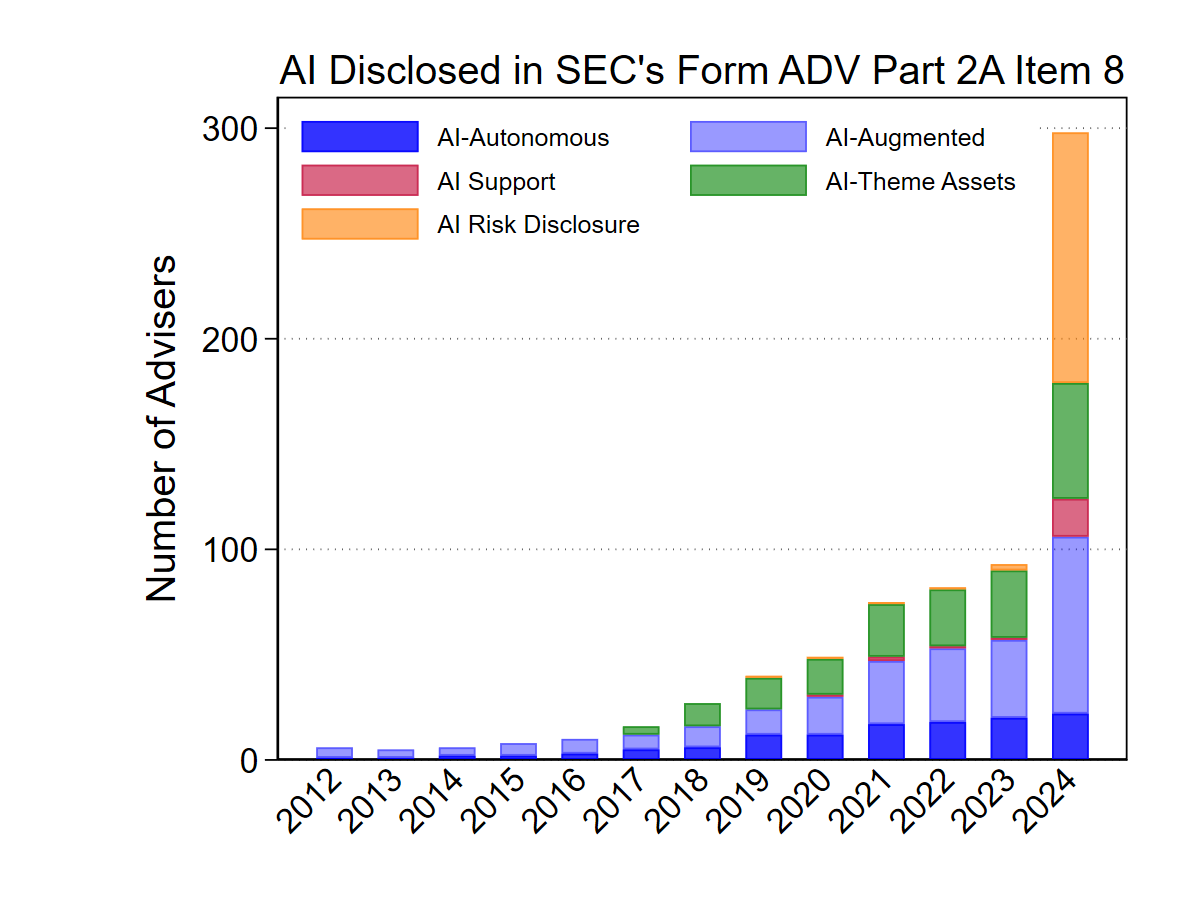
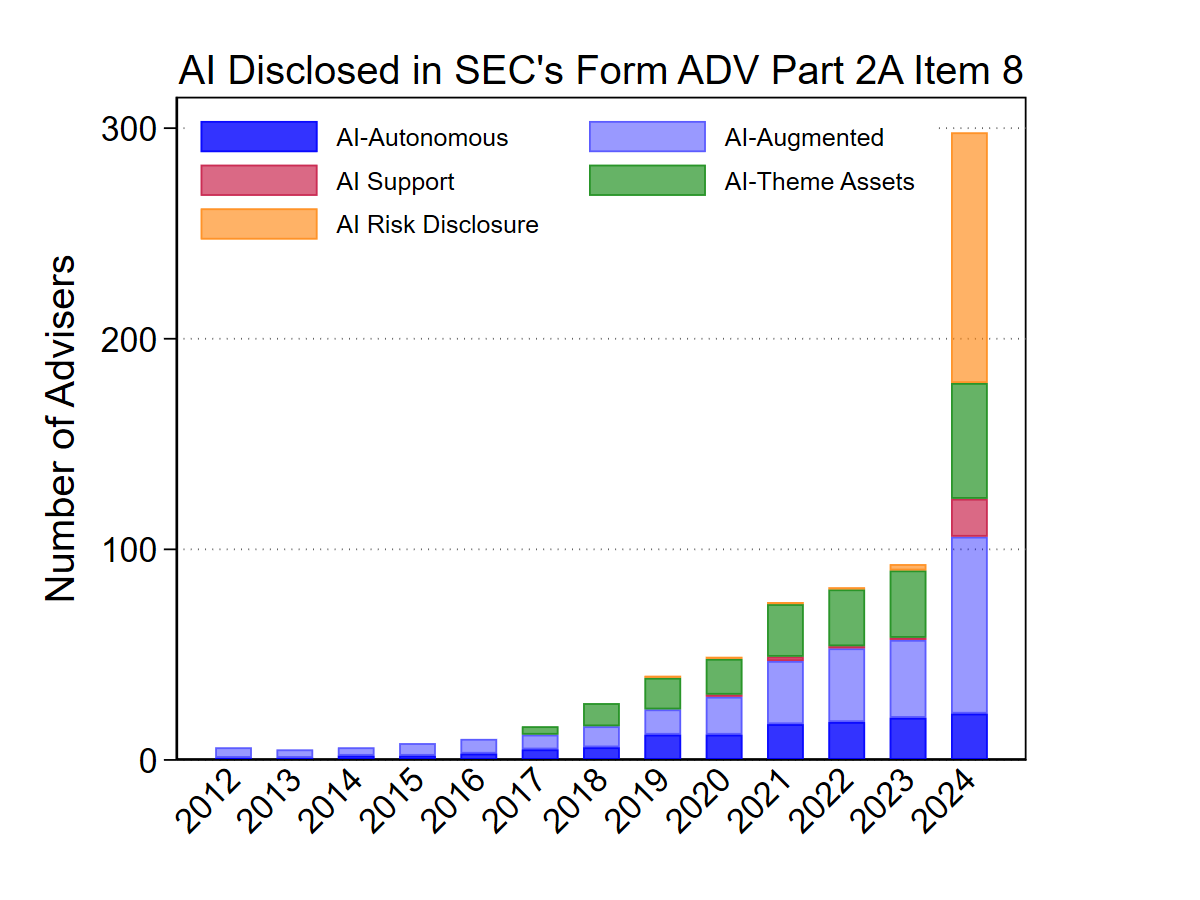
Add BDC credit commitments paper, align plot frames, handle missing paper_url
- New working paper at top: "Credit Commitments by Nonbanks" (with Jing Huang)
  - Figure: BDC unfunded commitments + bank credit limits + cash (2005-2025)
  - Composite chart (two-step Stata + PIL technique to get split legend)
- Paper-card template: gracefully render papers without a paper_url (span instead of broken link)
- Aligned all Stata figures' plot-frame edges to 0.147-0.854 of canvas via PIL
  post-processor so figures line up vertically on the research page

Changed region(s): [[0.0925, 0.0622, 0.9558, 0.9333], [0.0308, 0.28, 0.0617, 0.6844]]

diff --git a/_includes/paper-card.html b/_includes/paper-card.html
@@ -4,7 +4,7 @@
   </div>
   <div class="paper-content">
     <h3 class="paper-title">
-      <a class="paper-title-link" href="{{ include.paper.paper_url }}">{{ include.paper.title }}</a>{% if include.paper.authors and include.paper.authors.size > 0 %} <span class="paper-authors">(with {% assign n = include.paper.authors.size %}{% for a in include.paper.authors -%}{%- if forloop.first == false -%}{%- if forloop.last and n > 1 -%}{%- if n > 2 %}, and {% else %} and {% endif -%}{%- else -%}, {% endif -%}{%- endif -%}{%- if a.url %}<a href="{{ a.url }}">{{ a.name }}</a>{% else %}{{ a.name }}{% endif -%}{%- endfor %})</span>{% endif %}
+      {% if include.paper.paper_url %}<a class="paper-title-link" href="{{ include.paper.paper_url }}">{{ include.paper.title }}</a>{% else %}<span class="paper-title-link">{{ include.paper.title }}</span>{% endif %}{% if include.paper.authors and include.paper.authors.size > 0 %} <span class="paper-authors">(with {% assign n = include.paper.authors.size %}{% for a in include.paper.authors -%}{%- if forloop.first == false -%}{%- if forloop.last and n > 1 -%}{%- if n > 2 %}, and {% else %} and {% endif -%}{%- else -%}, {% endif -%}{%- endif -%}{%- if a.url %}<a href="{{ a.url }}">{{ a.name }}</a>{% else %}{{ a.name }}{% endif -%}{%- endfor %})</span>{% endif %}
     </h3>
     {% if include.paper.links and include.paper.links.size > 0 %}
       <div class="paper-actions">

diff --git a/_papers/08-bdc-credit-commitments.md b/_papers/08-bdc-credit-commitments.md
@@ -1,0 +1,12 @@
+---
+order: 0
+section: working
+title: "Credit Commitments by Nonbanks"
+image: "picture/bdc_agg_qtr.png"
+authors:
+  - name: Jing Huang
+    url: "https://mays.tamu.edu/directory/jing-huang/"
+meta: []
+teaser: |
+  Despite the secular shift to nonbank lending, banks retain a distinctive advantage in providing credit lines (Kashyap, Rajan, and Stein, 2002). We document a new pattern in nonbank lending: business development companies (BDCs) extend substantial credit commitments to borrowers, with commitment-to-asset ratios comparable to those of banks. These off-balance-sheet commitments are concentrated, exposing BDCs to undiversified borrower liquidity shocks—a risk they manage with credit lines provided by banks. We develop a model of layered liquidity insurance that extends Holmström and Tirole (1998), in which BDCs partially diversify idiosyncratic liquidity risk and use bank credit lines as a liquidity backstop. We show that nonbanks optimally provide only partial liquidity insurance, which generates a novel externality whereby firms sharing the constrained liquidity pool underinvest in liquidity management.
+---
